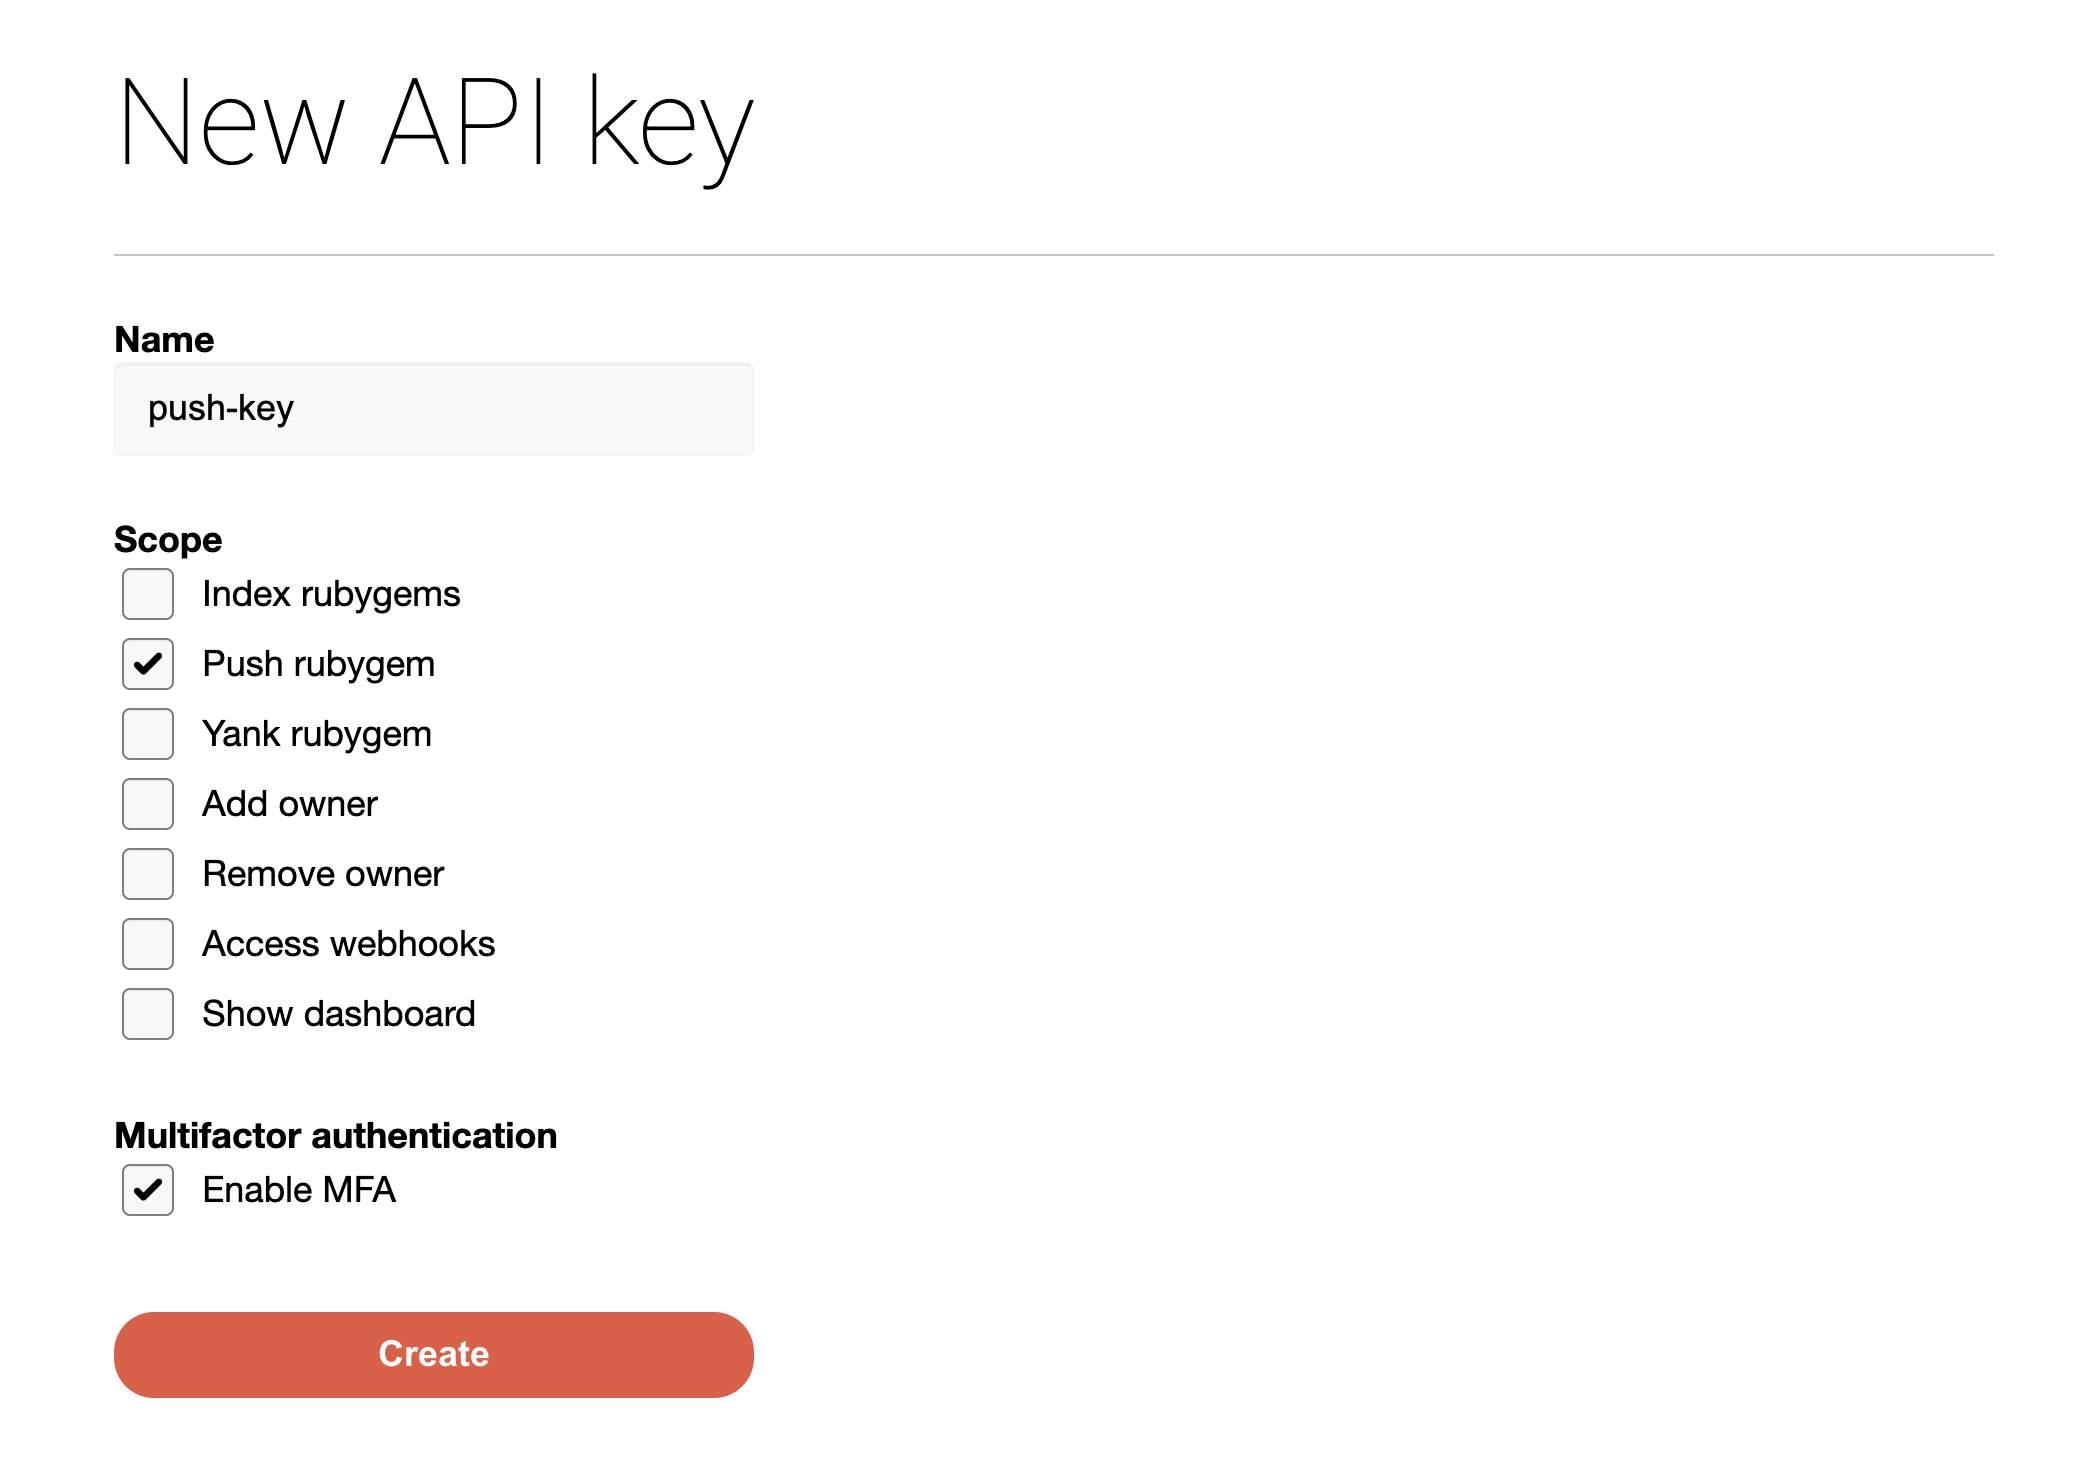
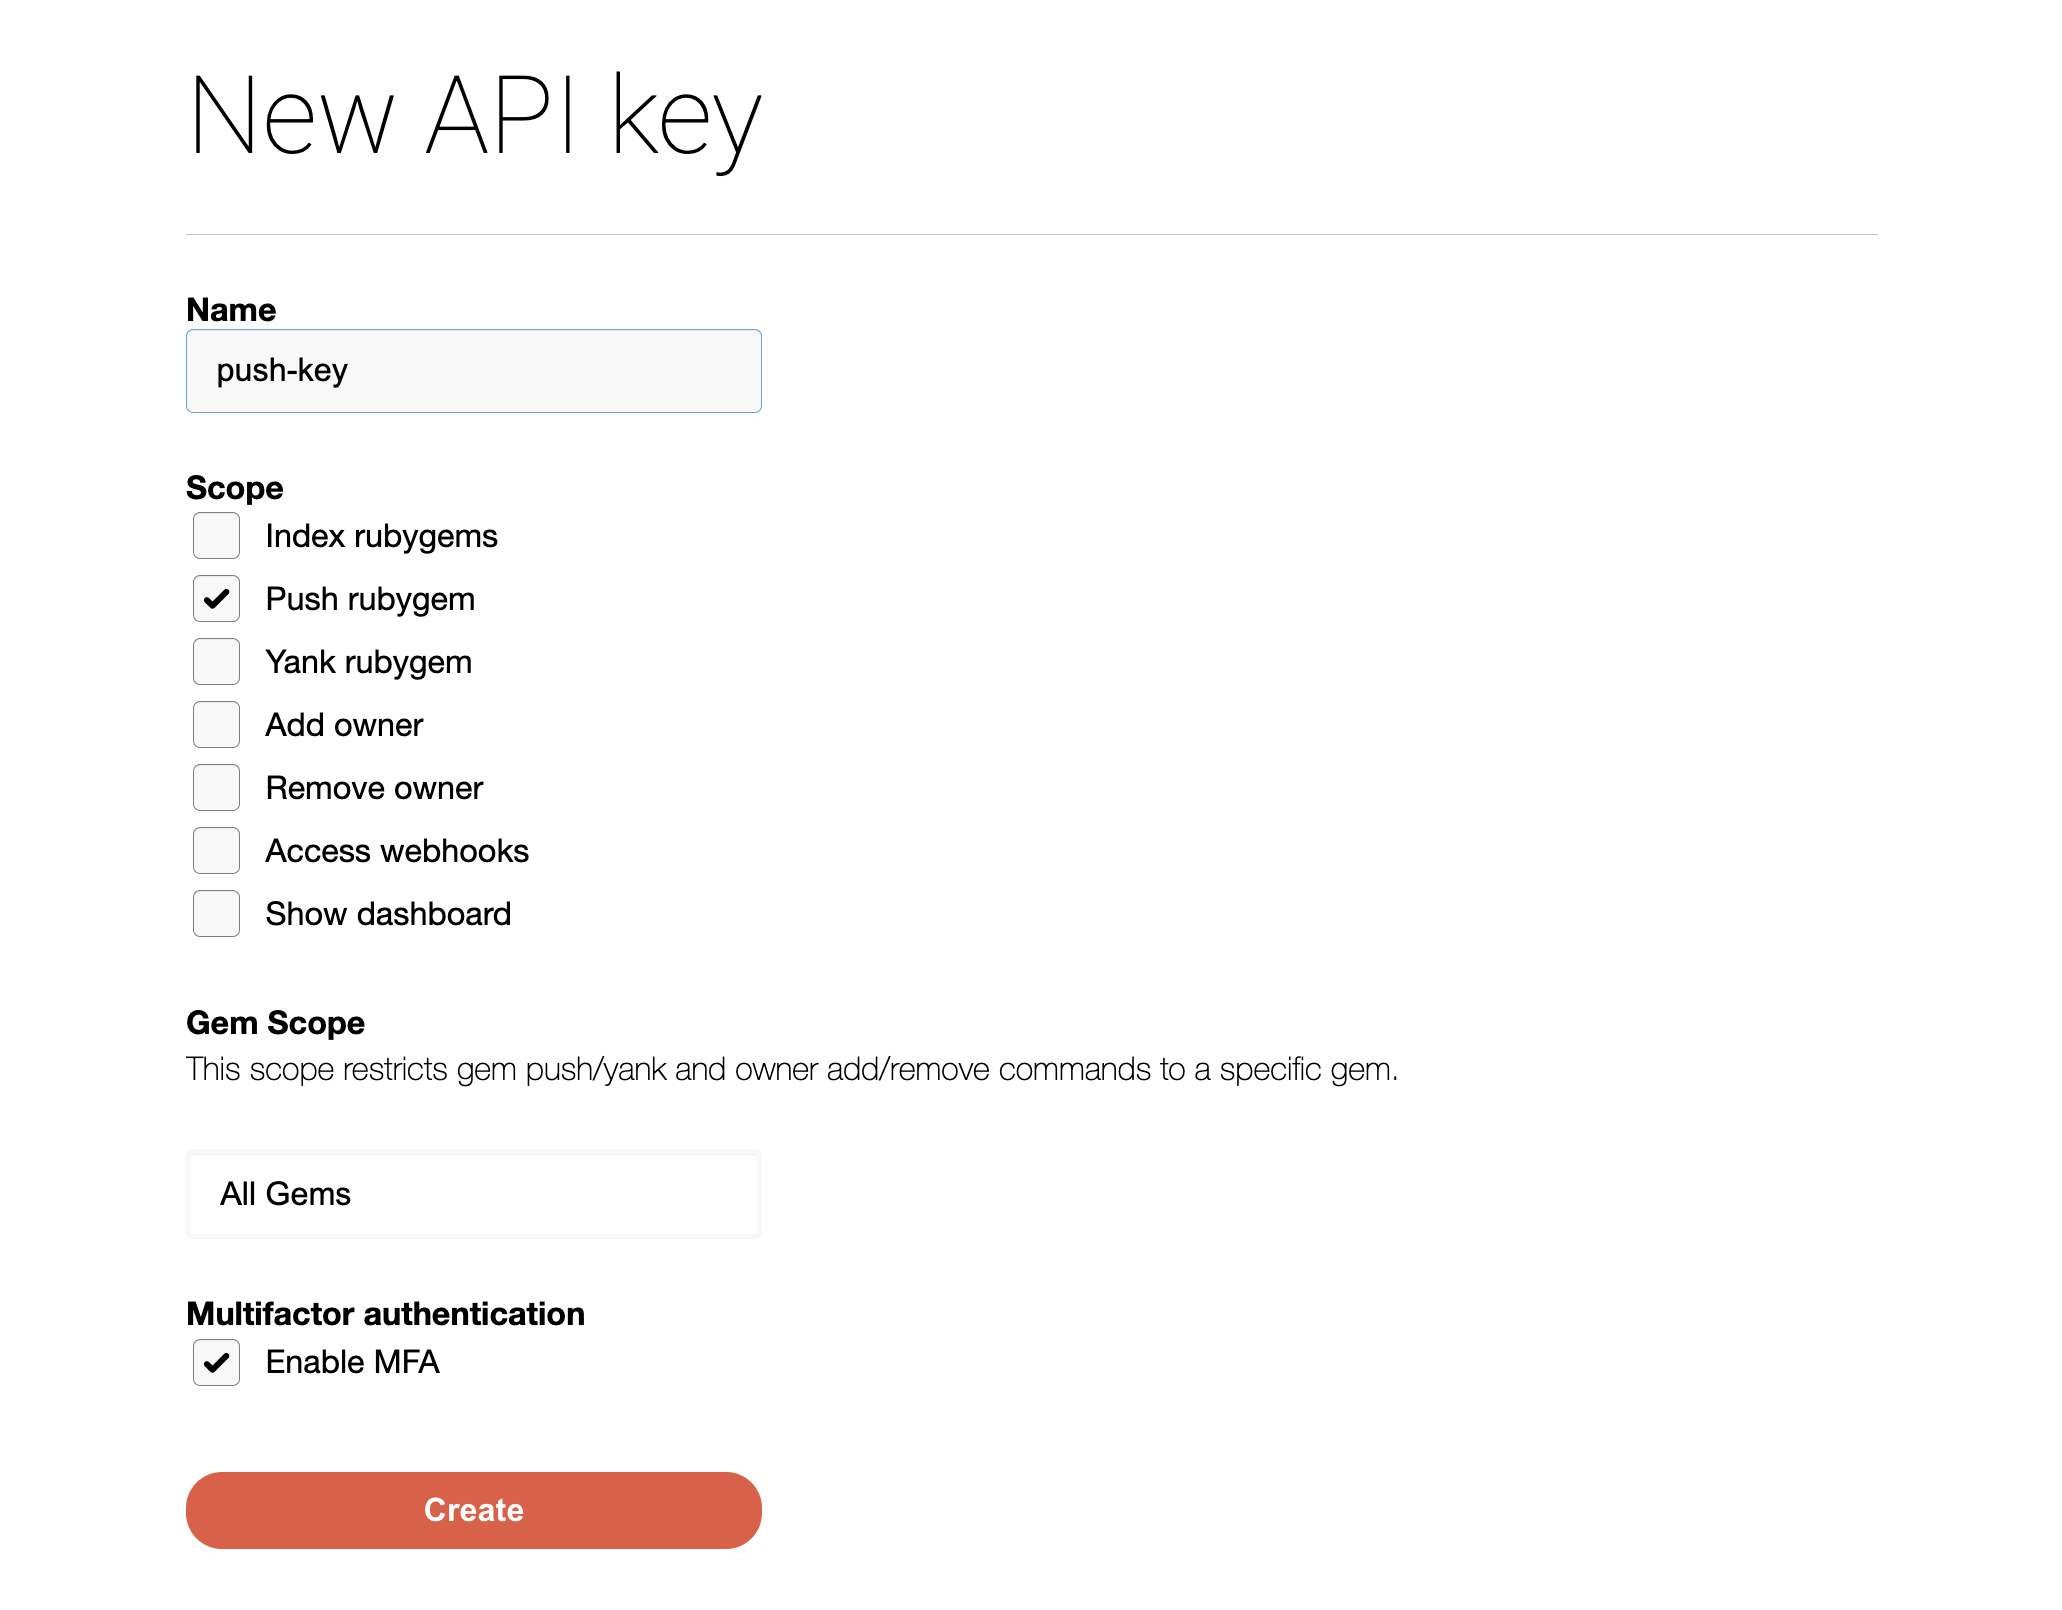
Add documentation related to scoping an API key to a gem

diff --git a/api-key-scopes.md b/api-key-scopes.md
@@ -80,6 +80,17 @@ API key scopes
 * [Access webhooks](https://guides.rubygems.org/rubygems-org-api/#webhook-methods): List, create, delete or fire webhooks associated with your account
 * [Show dashboard](https://rubygems.org/dashboard): Access to atom feed of your RubyGems.org dashboard. It is an exclusive scope and can't be enabled with any other scope.
 
+Scope an API key to a gem
+-------------------------
+Enabling one or more of the key scopes related to creating or updating a gem ([Push rubygems](https://guides.rubygems.org/rubygems-org-api/#post---apiv1gems), [Yank rubygems](https://guides.rubygems.org/rubygems-org-api/#delete---apiv1gemsyank), [Add owner](https://guides.rubygems.org/rubygems-org-api/#post---apiv1gemsgem-nameowners), and [Remove owner](https://guides.rubygems.org/rubygems-org-api/#delete---apiv1gemsgem-nameowners)) will allow you to scope one of your gems to the API key.
+The operations corresponding to these scopes will only be valid on the selected gem.
+
+![New API key with gem scope](/images/new-api-key-gem-scope.png){:class="t-img"}
+
+If you are using a key to modify only one of your gems, please consider gem scoping your keys.
+
+**Note:** When your ownership to a gem is removed, API keys scoped to that gem will become invalid and cannot be used.
+
 Enable MFA on specific API keys
 -----------------------------
 
